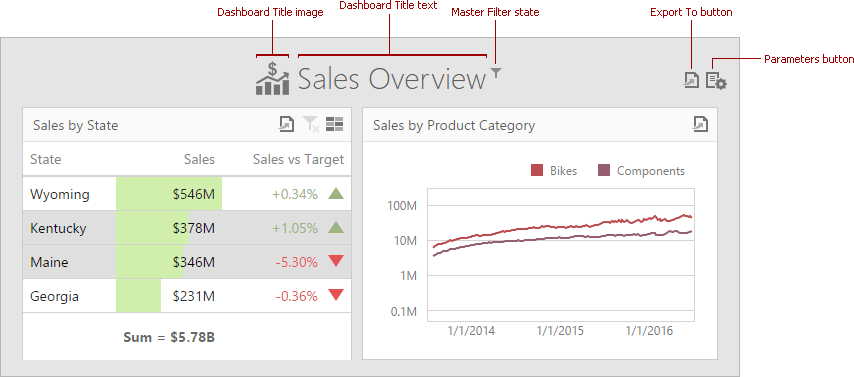
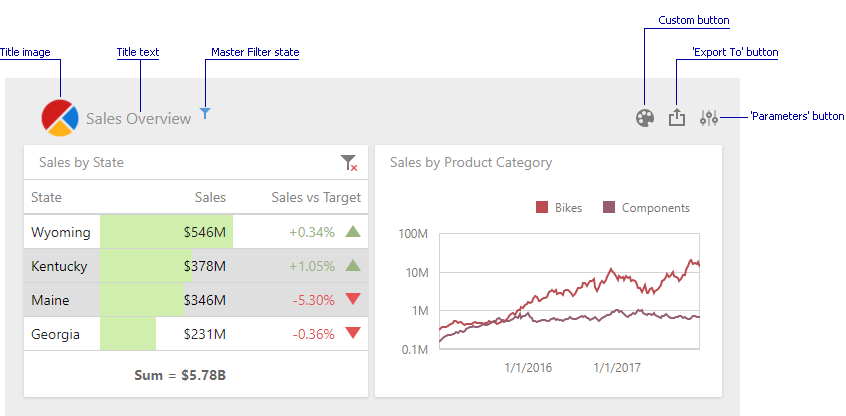
update

diff --git a/dashboard-for-web/articles/web-dashboard-designer-mode/dashboard-layout.md b/dashboard-for-web/articles/web-dashboard-designer-mode/dashboard-layout.md
@@ -45,10 +45,21 @@ In Viewer mode, you can programmatically adjust the size of the control to fit a
 ![web-dashboard-auto-size-viewer](../../images/web-dashboard-auto-size-viewer.png)
 
 ## Dashboard Title
-Refer to the following article for details: [Dashboard Title](dashboard-layout/dashboard-title.md)
+The Dashboard Title is located at the top of the dashboard surface and can contain static text, svg images, and command buttons. These elements are called toolbar items:
+
+![wdd-dashboard-title](../../images/img126004.png)
+
+Refer to the following article for details: [Dashboard Title](dashboard-layout/dashboard-title.md).
 ## Dashboard Items Layout
-See the following article for more information: [Dashboard Items Layout](dashboard-layout/dashboard-items-layout.md)
+The dashboard arranges dashboard items and groups using layout items and layout groups. They are containers that display a dashboard layout as a hierarchical structure.
+
+See the following article for more information: [Dashboard Items Layout](dashboard-layout/dashboard-items-layout.md).
 ## Dashboard Item Caption
-See the following article for more information: [Dashboard Item Caption](dashboard-layout/dashboard-item-caption.md)
+
+Each dashboard item has a caption that is displayed at the top of this item. The caption can contain static text, svg images, and command buttons. These elements are called toolbar items:
+
+![wdd-dashboard-item-caption](../../images/img126135.png)
+
+See the following article for more information: [Dashboard Item Caption](dashboard-layout/dashboard-item-caption.md).
 
 
